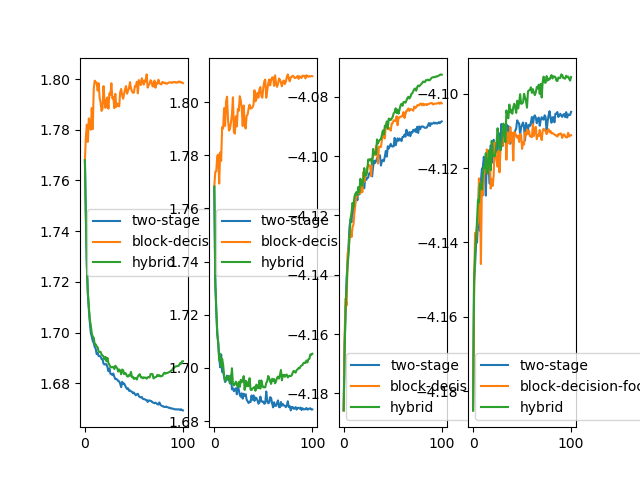
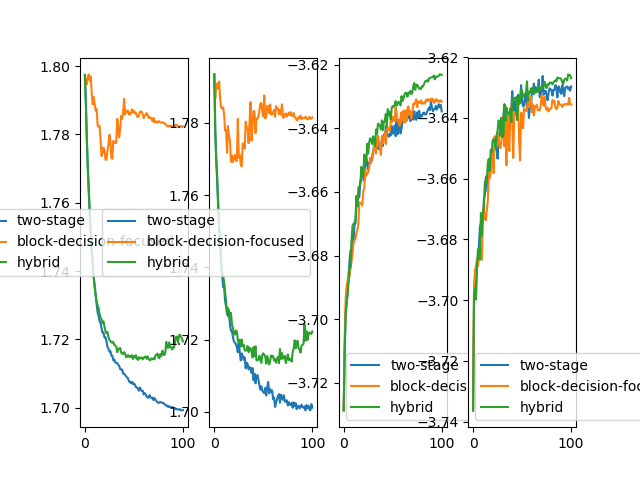
adding scaling constant for the constraint matrices

diff --git a/blockQP.py b/blockQP.py
@@ -284,9 +284,10 @@ def getDefUtility(single_data, unbiased_probs_pred, path_model, cut_size, omega=
     # A_matrix, b_matrix = torch.Tensor(), torch.Tensor()
     # G_matrix = torch.cat((-torch.eye(cut_size), torch.eye(cut_size), torch.ones(1, cut_size)))
     # h_matrix = torch.cat((torch.zeros(cut_size), torch.ones(cut_size), torch.Tensor([sum(pred_optimal_coverage[edge_set])])))
-    A_matrix, b_matrix = torch.ones(1, cut_size), torch.Tensor([sum(pred_optimal_coverage[edge_set])])
-    G_matrix = torch.cat((-torch.eye(cut_size), torch.eye(cut_size)))
-    h_matrix = torch.cat((torch.zeros(cut_size), torch.ones(cut_size)))
+    scale_constant = cut_size
+    A_matrix, b_matrix = torch.ones(1, cut_size)/scale_constant, torch.Tensor([sum(pred_optimal_coverage[edge_set])])/scale_constant
+    G_matrix = torch.cat((-torch.eye(cut_size), torch.eye(cut_size))) / scale_constant
+    h_matrix = torch.cat((torch.zeros(cut_size), torch.ones(cut_size))) / scale_constant
 
     if training_mode and pred_optimal_res['success']: # and sum(pred_optimal_coverage[edge_set]) > 0.1:
         
